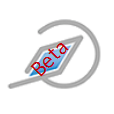
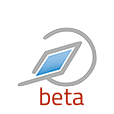
block mbschangeplatform: changed image and url

Changed region(s): [[0.0526, 0.1579, 0.8947, 0.9474]]

diff --git a/blocks/mbschangeplatform/lang/de/block_mbschangeplatform.php b/blocks/mbschangeplatform/lang/de/block_mbschangeplatform.php
@@ -28,7 +28,7 @@ $string['mbschangeplatform'] = 'Plattformwechsel';
 $string['mbschangeplatform:addinstance'] = 'Hinzufügen eines Plattformwechsel-Blocks';
 $string['mbschangeplatform:myaddinstance'] = 'Hinzufügen eines Plattformwechsel-Blocks zu meinem Schreibtisch';
 
-$string['linkdefault'] = 'https://docs.moodle.org/20/en/HTML_linking';
+$string['linkdefault'] = 'https://lernplattform-beta.mebis.bayern.de';
 $string['linktextdefault'] = 'Hier geht es zur Beta Plattform.';
 $string['imgpathdefault'] = '/blocks/mbschangeplatform/images/mebis_beta_icon.png';
 $string['imgalttext'] = 'Plattform icon';

diff --git a/blocks/mbschangeplatform/lang/en/block_mbschangeplatform.php b/blocks/mbschangeplatform/lang/en/block_mbschangeplatform.php
@@ -28,7 +28,7 @@ $string['mbschangeplatform'] = 'Change Platform';
 $string['mbschangeplatform:addinstance'] = 'Add a Change Platform block';
 $string['mbschangeplatform:myaddinstance'] = 'Add a Change Platform block to the My Moodle page';
 
-$string['linkdefault'] = 'https://docs.moodle.org/20/en/HTML_linking';
+$string['linkdefault'] = 'https://lernplattform-beta.mebis.bayern.de';
 $string['linktextdefault'] = 'A link to Beta Platform.';
 $string['imgpathdefault'] = '/blocks/mbschangeplatform/images/mebis_beta_icon.png';
 $string['imgalttext'] = 'Platform icon';
